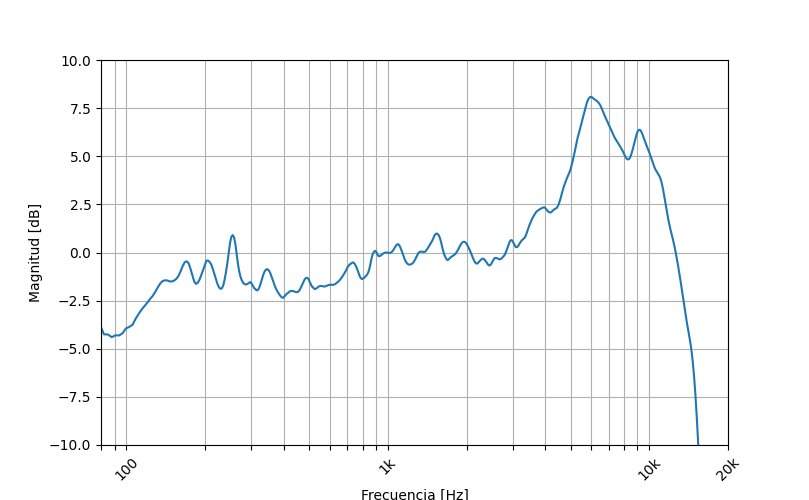
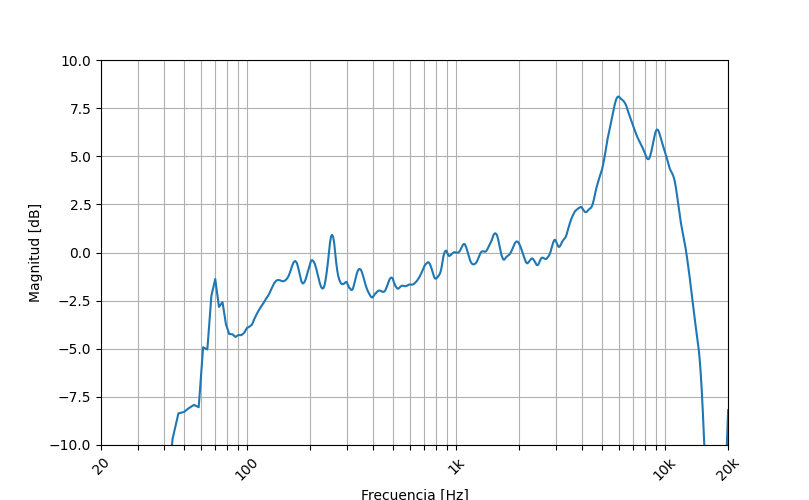
dependencias actualizadas y cambios en el codigo para correcta normalización y suavizado.

diff --git a/respuesta_frecuencia.py b/respuesta_frecuencia.py
@@ -4,62 +4,103 @@ import matplotlib.pyplot as plt
 from suavizado import suavizado
 
 
-def find_value(data, value):
+def find_value(data: np.ndarray, value: int):
+        
+    """
+    Allow finding a value in a np.ndarray and returns the nearby value found with the index 
+    
+    Parameters
+    ----------
+    data : numpy.ndarray
+        Frequencies from lowest to highest
+    value : numpy.ndarray
+        Value to find
+
+    Returns
+    -------
+    out : tuple
+        Tuple of two elements, the index of the value and the value founded
+
+    """
+
     dif = np.abs(data - value)
     index = dif.argmin()
     value = data[index]
     
-    return index, value 
+    return (index, value) 
 
-resp_df = pd.read_csv('datos/rta_freq_sm57.txt', sep='\t', header=None)
-resp_values = resp_df.to_numpy() #Para tener los datos numericos en un array
-
-# Frecuencia ---- Magnitud ---- Fase ---- Coherencia
-
-#print(resp_values)
-
-frecuencia = np.array([])
-magnitud = np.array([])
-
-for f in resp_values:
-    frecuencia = np.append(frecuencia, f[0])
-    magnitud = np.append(magnitud, f[1])
-
-#print (frecuencia.shape, magnitud.shape)
-
-# Valor mas cercano en frecuencia a 1000 Hz
-index_1000, value_1000 = find_value(frecuencia, 1000)
-frec_ref = value_1000
-mag_ref = magnitud[index_1000]
-
-#print(frec_ref, mag_ref)
-
-index_20, value_20 = find_value(frecuencia, 20)
-index_20k, value_20k = find_value(frecuencia, 20000)
-frecuencia = frecuencia[index_20:index_20k+1]
-magnitud = magnitud[index_20:index_20k+1]
-
-magnitud_normalizada = np.array([])
-
-for m in magnitud:
-    magnitud_normalizada = np.append(magnitud_normalizada, m-mag_ref)
+def get_data_smaart(path, file):
     
-mag_suavizada = suavizado(frecuencia, magnitud_normalizada, 12)
+    """
+    Read the .txt with Smaart data, and returns the values of cols separated in np.ndarrays
+    
+    Parameters
+    ----------
+    path : str
+        Folder where the files are saved.
+    file : str
+        Name of the file to load with the extension
 
-f_values_x = [20, 30, 40, 50, 60, 70, 80, 90, 100, 200, 300, 400, 500, 600, 700, 800, 900, 1000, 2000, 3000, 4000, 5000, 6000, 7000, 8000, 9000, 10000, 20000]
-# f_xticks = ["20", "30", "40", "50", "60", "70", "80", "90", "100", "200", "300", "400", "500", "600", "700", "800", "900", "1k", "2k", "3k", "4k", "5k", "6k", "7k", "8k", "9k", "10k", "20k"]
-f_xticks = ["20", "", "", "", "", "", "", "", "100", "", "", "", "", "", "", "", "", "1k", "", "", "", "", "", "", "", "", "10k", "20k"]
-# f_ticks_x = list(map(str, f_values_x))
-size_y = 5
-size_x = size_y*(1+np.sqrt(5))/2
-fig = plt.figure(figsize=(size_x, size_y))
-plt.semilogx(frecuencia, mag_suavizada)
-plt.xticks(f_values_x, f_xticks, rotation=45)
-plt.xlim(80, 20000)
-plt.ylim(-10, 10)
-plt.xlabel('Frecuencia [Hz]')
-plt.ylabel('Magnitud [dB]')
-plt.grid()
-plt.savefig("img/SM57_rta_freq.png")
+    Returns
+    -------
+    out : list
+        List of np.ndarray with frequency, magnitude and phase
 
-# print(A)
+    """    
+
+    # Lectura de datos del txt, se borran las primeras columnas del .txt para facilidad
+    # Frecuencia ---- Magnitud ---- Fase ---- Coherencia
+    resp_df = pd.read_csv(f'{path}/{file}', sep='\t', header=None)
+    resp_values = resp_df.to_numpy() # dataframe se pasa a numpy array
+
+    #Separación de datos en arrays independientes
+    frequency = np.array([])
+    magnitude = np.array([])
+    phase = np.array([])
+
+    for f in resp_values:
+        frequency = np.append(frequency, f[0])
+        magnitude = np.append(magnitude, f[1])
+        phase = np.append(phase, f[2])
+
+    return [frequency, magnitude, phase]
+
+
+def main():
+    frequency, magnitude, phase = get_data_smaart("datos", "rta_freq_sm57.txt")
+
+    # Valor mas cercano en frecuencia a 1000 Hz
+    index_ref, freq_ref = find_value(frequency, 1000)
+
+    magnitude = suavizado(frequency, magnitude, 12)
+    mag_ref = magnitude[index_ref]
+    index_20, f_value_20 = find_value(frequency, 20)
+    index_20k, f_value_20k = find_value(frequency, 20000)
+    frequency = frequency[index_20:index_20k+1]
+    magnitude = magnitude[index_20:index_20k+1]
+
+    magnitude_norm = np.array([])
+
+    for m in magnitude:
+        magnitude_norm = np.append(magnitude_norm, m-mag_ref)
+        
+    f_xvalues = [20, 30, 40, 50, 60, 70, 80, 90, 100, 200, 300, 400, 500, 600, 700, 800, 900, 1000, 2000, 3000, 4000, 5000, 6000, 7000, 8000, 9000, 10000, 20000]
+    f_xticks = ["20", "", "", "", "", "", "", "", "100", "", "", "", "", "", "", "", "", "1k", "", "", "", "", "", "", "", "", "10k", "20k"]
+
+    # Graficos con matplotlib.pyplot
+
+    size_y = 5 #ancho en pulgadas
+    size_x = size_y*(1+np.sqrt(5))/2 #proporcion aurea
+    fig = plt.figure(figsize=(size_x, size_y))
+    plt.semilogx(frequency, magnitude_norm)
+    plt.xticks(f_xvalues, f_xticks, rotation=45)
+    plt.xlim(20, 20000)
+    plt.ylim(-10, 10)
+    plt.xlabel('Frecuencia [Hz]')
+    plt.ylabel('Magnitud [dB]')
+    plt.grid()
+    plt.savefig("img/rta_freq_sm57.png")
+
+if __name__ == '__main__':
+    main()
+    
